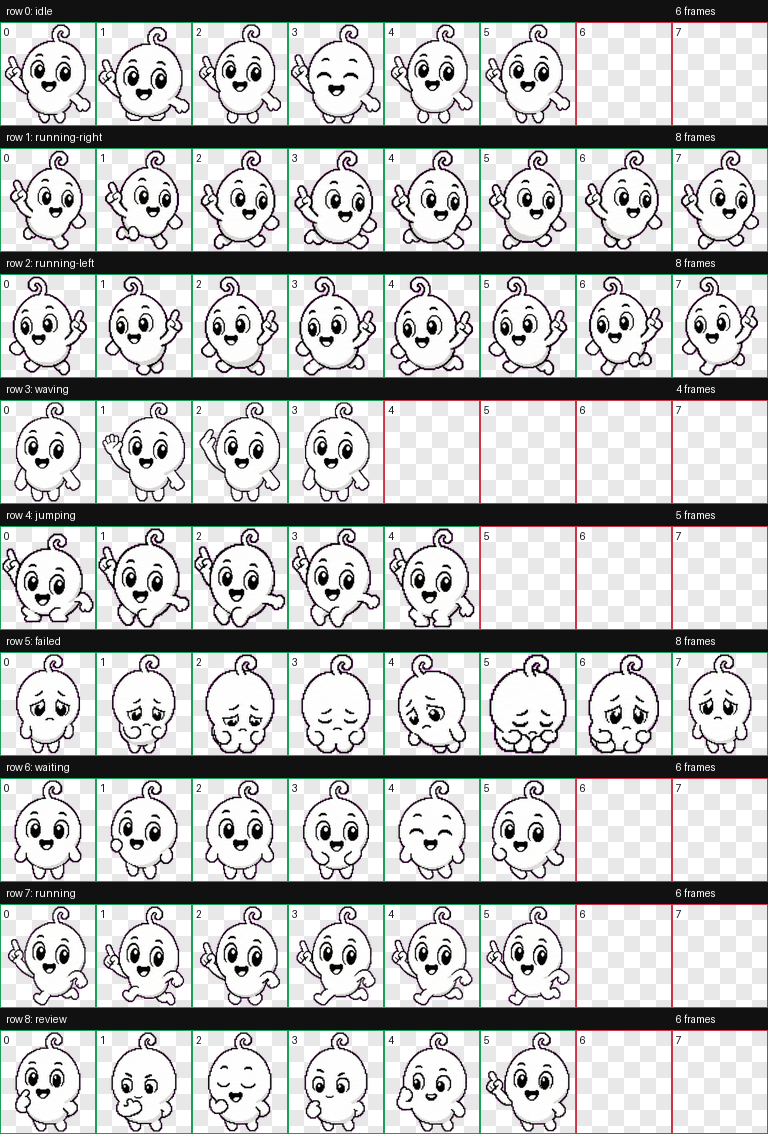
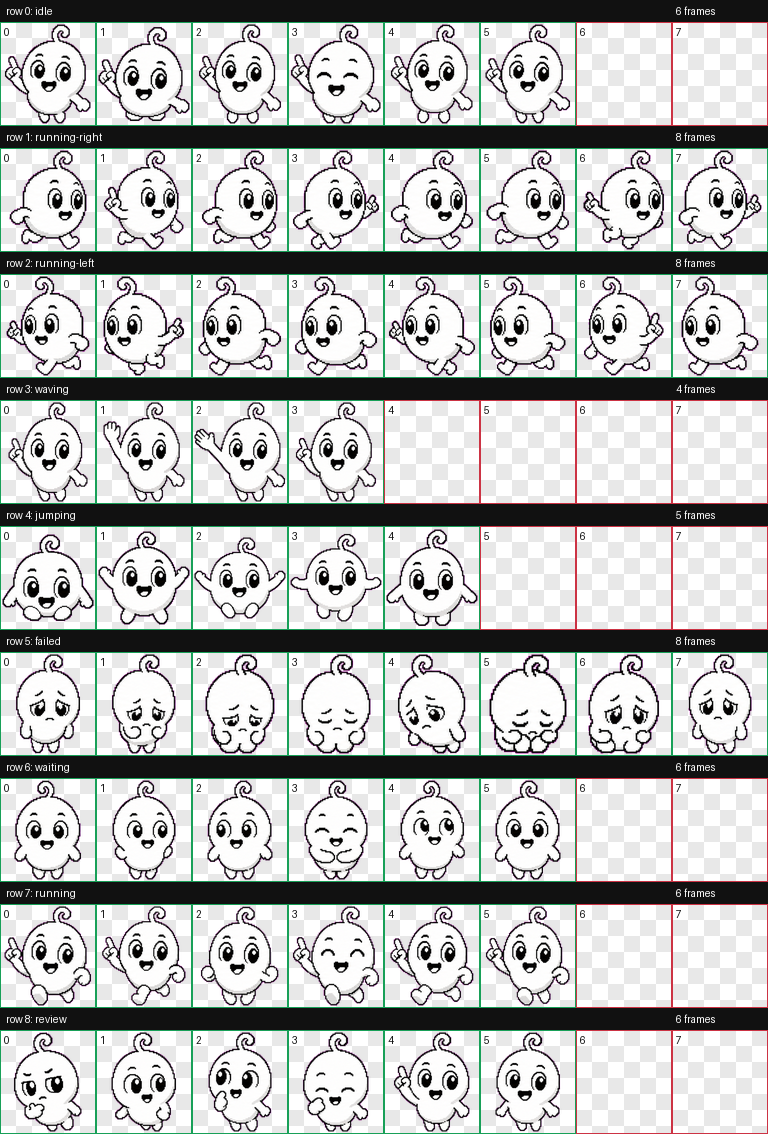
Improve Wally animation cycles

Changed region(s): [[0.0, 0.1235, 1.0, 0.5556], [0.0, 0.679, 0.75, 1.0]]

diff --git a/README.md b/README.md
@@ -6,6 +6,15 @@ A cheerful little guide for builds, reviews, and clean progress.
 
 ![Wally preview](docs/wally-preview.png)
 
+## Animation
+
+Wally uses the standard Codex pet atlas with refreshed motion:
+
+- clearer left/right walk cycles for moving across the screen
+- a more energetic in-place build/run bounce
+- stronger waving, jumping, waiting, and review poses
+- clean black-and-white sprite styling with no text, props, local paths, or generated logs
+
 ## Install
 
 Run:
